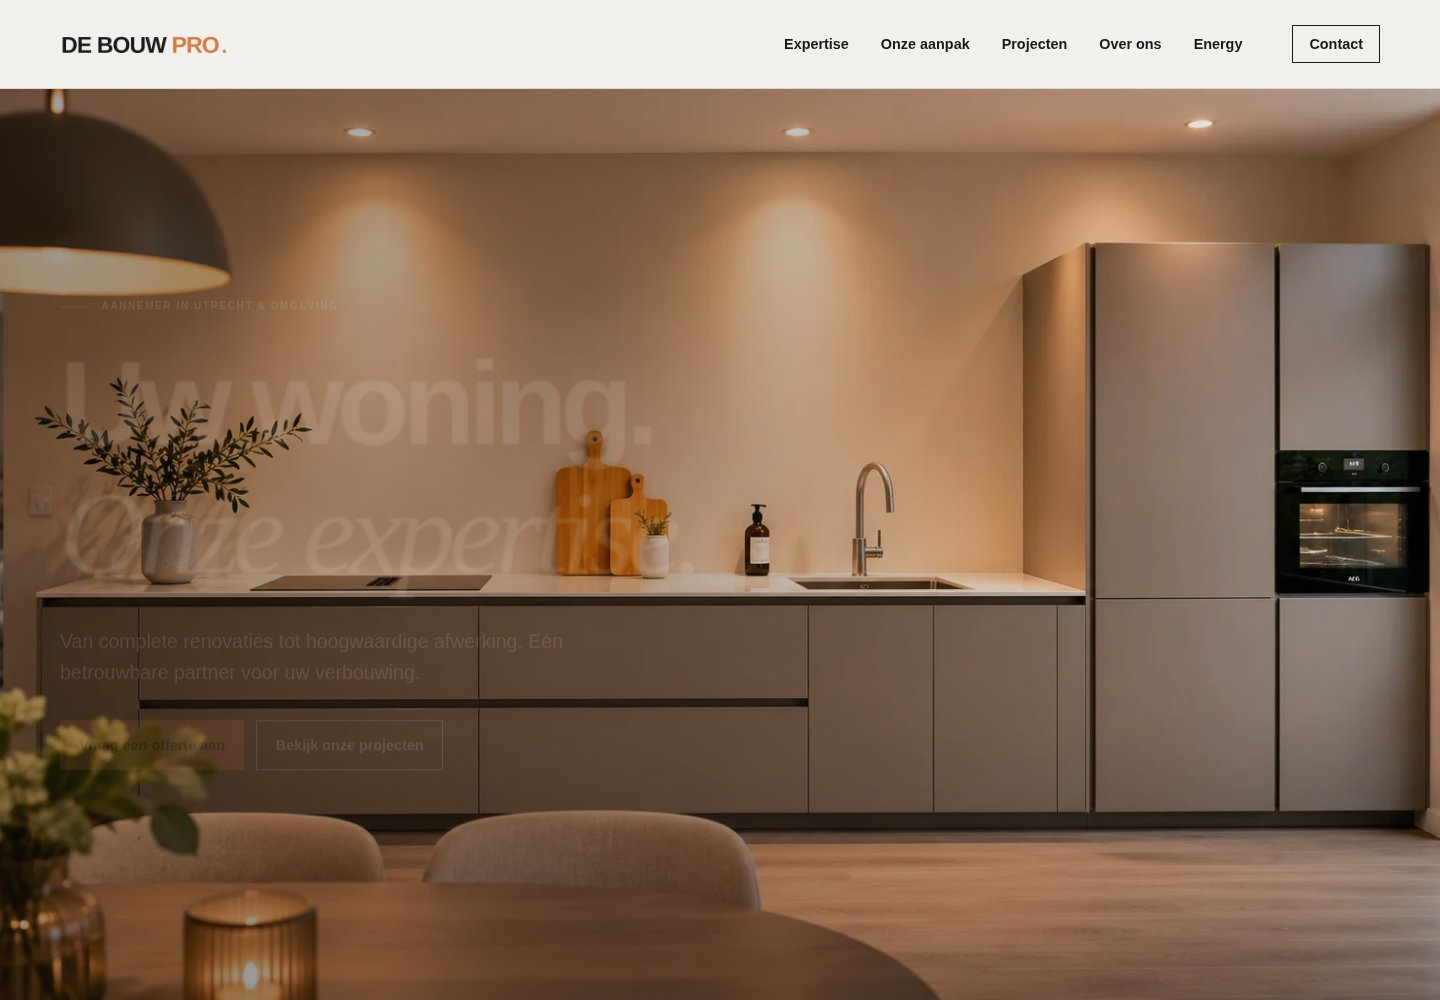
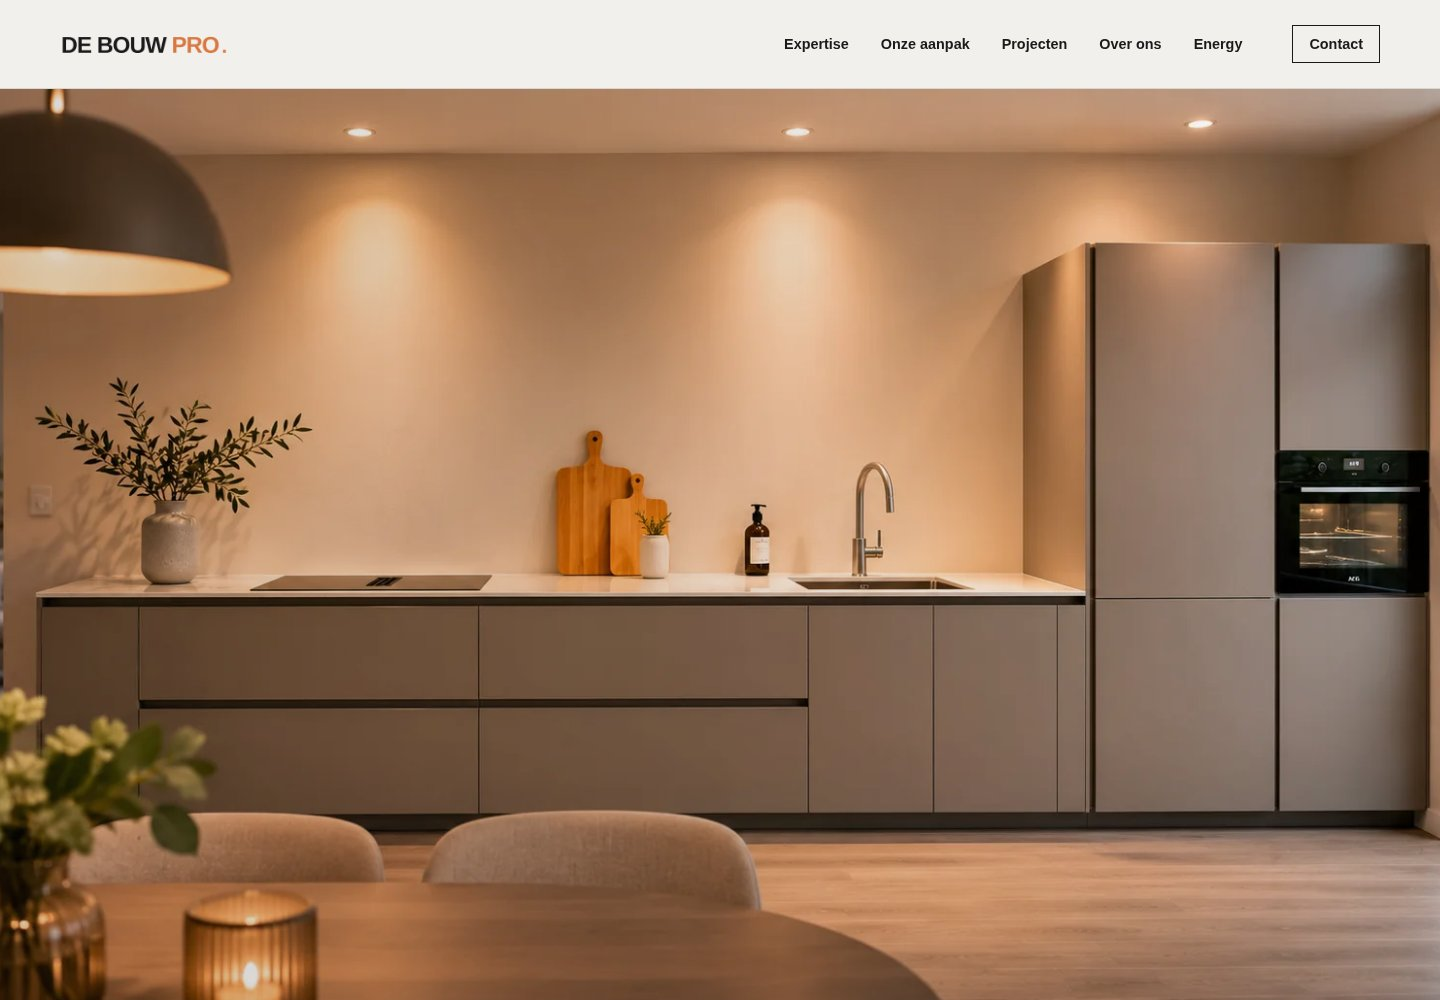
Lengthen hero entrance to 1.6 seconds and record domain prerequisites

diff --git a/assets/concept-v3.css b/assets/concept-v3.css
@@ -556,18 +556,18 @@
     opacity: 0;
   }
   .home-hero.hero-warm.hero-sequence-playing::after {
-    animation: hero-shade-arrive 850ms 100ms cubic-bezier(0.25, 0.1, 0.25, 1)
+    animation: hero-shade-arrive 1150ms 120ms cubic-bezier(0.25, 0.1, 0.25, 1)
       both;
   }
   .home-hero.hero-warm.hero-sequence-playing .hero-content {
-    animation: hero-copy-arrive 950ms 220ms cubic-bezier(0.25, 0.1, 0.25, 1)
+    animation: hero-copy-arrive 1320ms 280ms cubic-bezier(0.25, 0.1, 0.25, 1)
       both;
   }
   .home-hero.hero-warm.hero-sequence-playing h1 {
-    animation: hero-title-focus 950ms 220ms ease-in-out both;
+    animation: hero-title-focus 1320ms 280ms ease-in-out both;
   }
   .home-hero.hero-warm.hero-sequence-playing .hero-credit {
-    animation: hero-credit-arrive 650ms 450ms ease-in-out both;
+    animation: hero-credit-arrive 850ms 600ms ease-in-out both;
   }
 }
 @keyframes hero-shade-arrive {

diff --git a/assets/concept-v3.js b/assets/concept-v3.js
@@ -42,7 +42,7 @@ if (hero) {
       requestAnimationFrame(() => {
         if (finished) return;
         hero.classList.add("hero-sequence-playing");
-        safety = setTimeout(finish, 1600);
+        safety = setTimeout(finish, 2100);
       });
     }, finish);
     hero.addEventListener("animationend", (event) => {

diff --git a/docs/domain-transition-review.md b/docs/domain-transition-review.md
@@ -1,0 +1,13 @@
+# Read-only domain review — 26 November 2026
+
+Scope: debouwpro.nl, no DNS/domain/mail mutations performed. Playground only is authorised for publication.
+
+Cloudflare zone is pending. Assigned NS: liberty.ns.cloudflare.com and wesley.ns.cloudflare.com. Public delegation still points to docks06.rzone.de and shades06.rzone.de. No Worker custom domains attached.
+
+Public A/AAAA, www CNAME, Google MX, SPF, Google DKIM and DMARC match the imported Cloudflare records. This is a targeted check, not a full authoritative-zone export comparison.
+
+Public DNSSEC DS exists (key tag 1321, algorithm 8, digest type 2). Before moving nameservers, disable DNSSEC at the current provider and verify removal of the old parent DS. Do not change NS before that verification.
+
+Cloudflare autoconfig CNAME points to autoconfigure.strato.de and is currently proxied. Set it to DNS only before activation; this requires separately authorised DNS work. Confirm the intended web proxy/SSL configuration and complete zone inventory first. Preserve Google mail settings. Moving nameservers does not publish the Playground to the production domain.
+
+After checks and owner-authorised NS change at STRATO: verify delegation/Cloudflare active status, existing website, TLS and mail delivery; then enable Cloudflare DNSSEC with its new DS. Production content migration remains a separate release.

diff --git a/docs/hero-graafwerk/README.md b/docs/hero-graafwerk/README.md
@@ -1,3 +1,5 @@
+Owner timing refinement, 26 November: lengthened the overlapping entrance to 1.6 seconds (shade 1150ms after 120ms; copy/focus 1320ms after 280ms). Retains gentle easing and reduced-motion/keyboard bypass.
+
 Publication verified, 26 November 2026: softened hero source e90e375 deployed to the existing Playground Worker through the connected Cloudflare API. Public CSS and JavaScript match source bytes; homepage returns HTTP 200 and noindex, nofollow. Domain inspection was read-only: debouwpro.nl zone pending, public NS still docks06.rzone.de / shades06.rzone.de, no Worker custom domains attached. No DNS or production changes.
 
 Follow-up refinement, 26 November: softened the accelerated entrance after owner feedback. Shade now takes 850ms after 100ms; copy overlaps from 220ms for 950ms with a gentler acceleration curve, 6px movement and 1px focus effect. Total entrance is about 1.17 seconds. Keyboard and reduced-motion bypasses remain unchanged.
